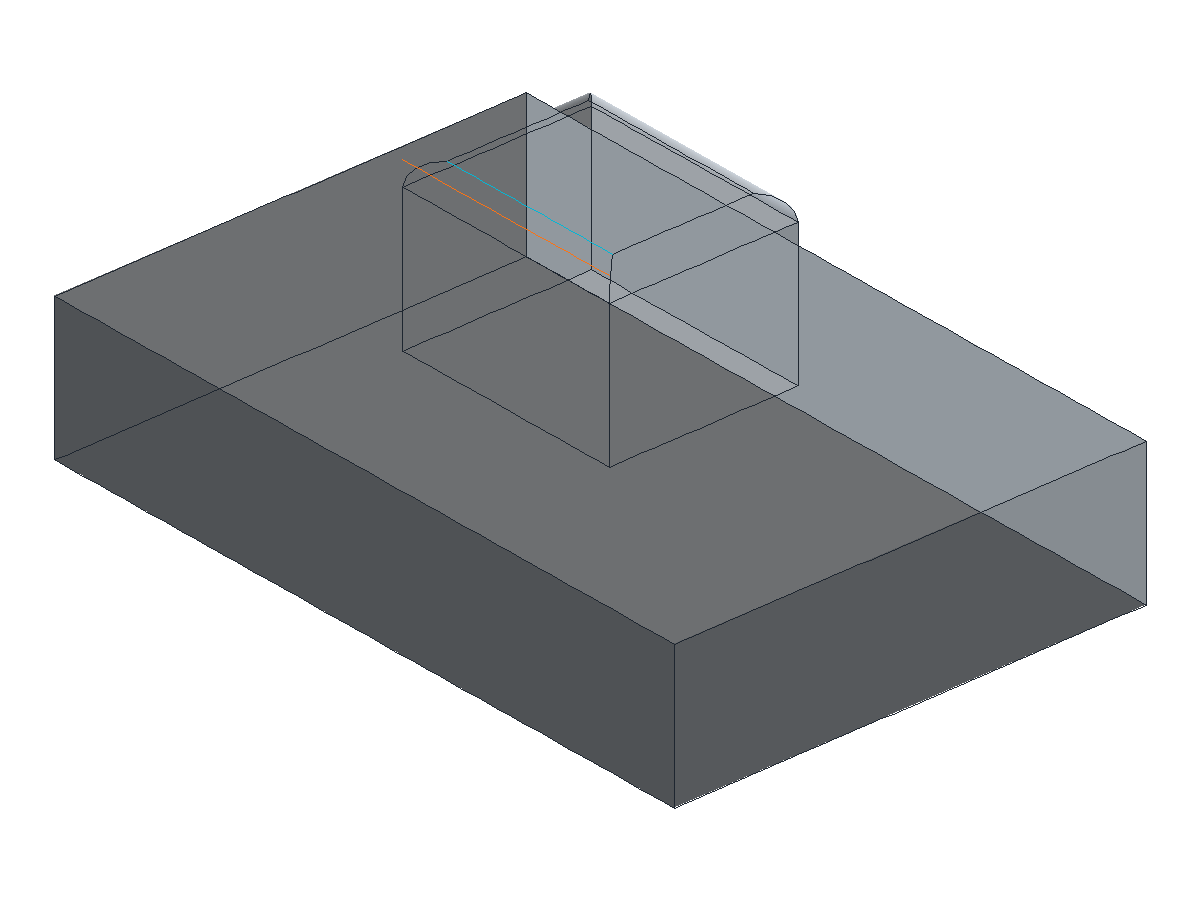
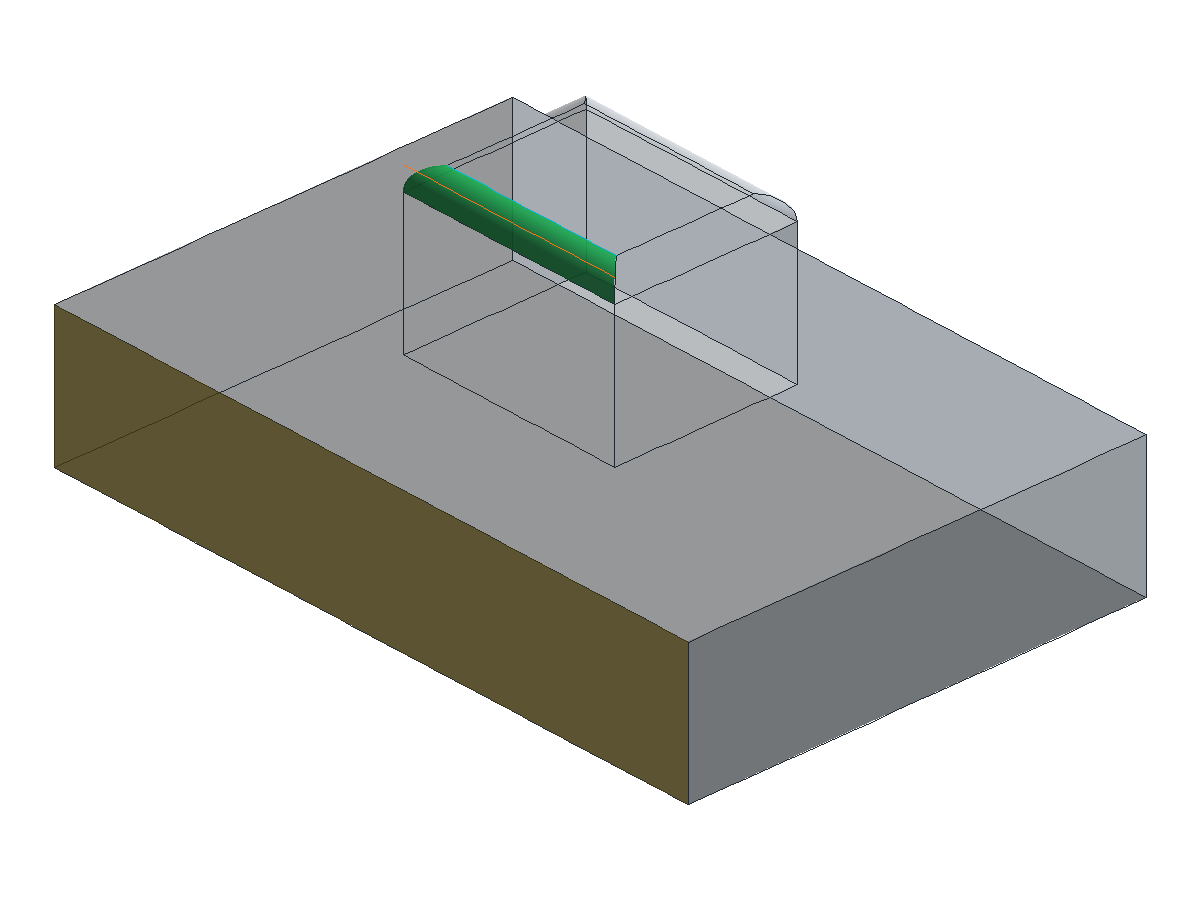
Improve stack audit visual review workflow

diff --git a/src/examples/dsl_feature_examples.ts b/src/examples/dsl_feature_examples.ts
@@ -711,13 +711,13 @@ export const dslFeatureExamples: DslFeatureExample[] = [
         parallel: true,
       },
       renderOpts: {
-        viewDir: [1.28, -1.12, 0.96],
+        viewDir: [1.54, -1.42, 1.18],
       },
       layers: [
         {
           output: "body:main",
           color: [205, 214, 224],
-          alpha: 0.8,
+          alpha: 0.58,
           wireframe: true,
           wireColor: [30, 38, 48],
           wireDepthTest: false,
@@ -726,18 +726,18 @@ export const dslFeatureExamples: DslFeatureExample[] = [
       ],
       selectionHighlights: [
         {
-          selectionId: "face:body.main~union-main.side.base-2",
+          selectionId: "face:body.main~union-main.side.base-1",
           color: [234, 179, 8],
-          alpha: 0.28,
+          alpha: 0.55,
           wireframe: false,
-          depthTest: true,
+          depthTest: false,
         },
         {
           selectionId: "face:body.main~union-main.fillet.seed.1",
           color: [34, 197, 94],
-          alpha: 0.5,
+          alpha: 0.92,
           wireframe: false,
-          depthTest: true,
+          depthTest: false,
         },
         {
           selectionId: "edge:body.boss~boss.hd02c8fff3fcee9ed.3",

diff --git a/AGENTS.md b/AGENTS.md
@@ -109,6 +109,8 @@ Use this workflow for feature development and promotion decisions.
    - Add/update DSL example in `src/examples/dsl_feature_examples.ts`.
    - Run `npm run docs:examples`.
    - Ensure review PNG is produced in `docs/public/examples/dsl/<example>.iso.png`.
+   - Before presenting a review artifact to the reviewer, inspect the generated PNG locally yourself. Use the local image inspection tool on the PNG (for example via the in-session image viewer) to catch legend overlap, occluded highlights, low-contrast colors, or confusing labels before handing it off.
+   - Prefer PNG review artifacts for the agent visual pass. If an annotated asset is authored as SVG, keep the PNG render as the primary visual check and use the SVG only for labels/legend layout.
 
 3. Interactive review package (agent + reviewer)
    - Export viewer assets with `TF_VIEWER_ONLY=<example-id> npm run viewer:export`.
